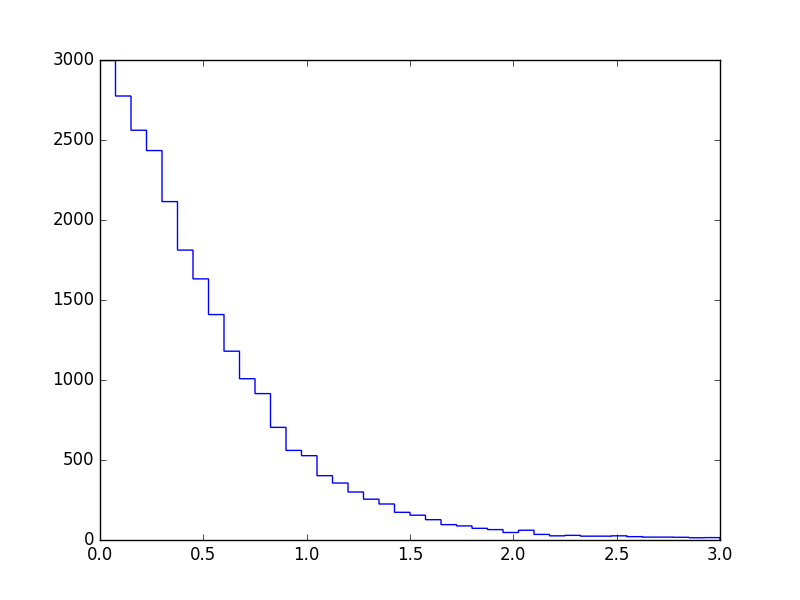
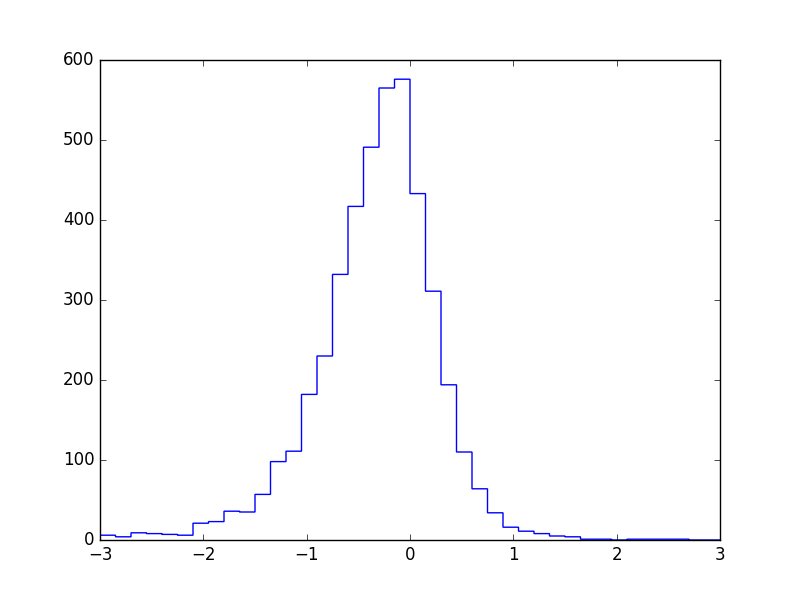
Plotting pulls

diff --git a/Code/Lifetime.py b/Code/Lifetime.py
@@ -220,17 +220,17 @@ class CandidateEvent(object):
 		m_d0 = self.reconstructedD0Mass
 		p_d0 = self.pD0
 		return x * m_d0 / p_d0
-# 		x = (self.dstarDecay-self.d0Decay)*1e-3
-# 		m_ds = self.reconstructedD0Mass
-# 		p_ds = self.pD0_comps
-# 		return np.sign(dot(x, p_ds)) * magnitude(x) * m_ds / magnitude(p_ds)
 
 	@lazy_property.LazyProperty
 	def dStarDecayTime(self):
+# 		x = (self.bDecay-self.dstarDecay)*1e-3
+# 		m_ds = self.reconstructedDstarMass
+# 		p_ds = self.pDstar_comps
+# 		return  magnitude(x) * m_ds / magnitude(p_ds)
 		x = (self.bDecay-self.dstarDecay)*1e-3
 		m_ds = self.reconstructedDstarMass
 		p_ds = self.pDstar_comps
-		return  magnitude(x) * m_ds / magnitude(p_ds)
+		return np.sign(dot(x, p_ds)) * magnitude(x) * m_ds / magnitude(p_ds)
 
 
 	@lazy_property.LazyProperty
@@ -489,18 +489,24 @@ def massDiff_plot(events, ext_name='', fit=True, range=(139, 165), methodName='m
 	masses = np.array([np.mean([d0, d1]) for d0, d1 in zip(bin_edges[:-1], bin_edges[1:])])
 	bin_width = bin_edges[1] - bin_edges[0]
 
-	initial = [max(hist)*0.04, 0.25, max(hist), 146, .1, 1., .9]
+	initial = [max(hist)*0.04, 0.25, max(hist), 145.5, .1, 1., .9]
 
 	# https://suchideas.com/articles/maths/applied/histogram-errors/
 	errors = np.sqrt(hist)
-		
+	x_errors = np.repeat(bin_width/2, len(errors))
+	
 	if fit:	
 		po, po_cov = spo.curve_fit(combined_fit, masses, hist, initial, sigma=errors, bounds=(0, [np.inf, np.inf, np.inf, np.inf, 1, 5, np.inf]))
 		print('po-fit', po)
 	
-	fig = newrawfig()
-	subpl_height = .2
-	ax = fig.add_axes([0, subpl_height, default_width, default_width*golden_mean-subpl_height])
+	fig = newrawfig(width=2)
+	margin = .1
+	out_margin = .02
+	subpl_height = .3
+	width, height = 1, 1
+	# x_l, x_b, w, h
+	ax = fig.add_axes([margin, subpl_height, width-margin-out_margin, height-subpl_height-margin])
+	ax.axes.get_xaxis().set_visible(False)
 	ax.plot(masses, hist, '.r')
 	ax.errorbar(masses, hist, yerr=errors, fmt=',r', capsize=0)
 	
@@ -509,18 +515,26 @@ def massDiff_plot(events, ext_name='', fit=True, range=(139, 165), methodName='m
 		ax.plot(masses_continuous, combined_fit(masses_continuous, *po), '-g')
 # 		ax.plot(masses_continuous, gaussian(masses_continuous, po[2] * po[6], po[4], po[3]), '-k')
 # 		ax.plot(masses_continuous, gaussian(masses_continuous, po[2] * (1-po[6]), po[5], po[3]), '-k')
-		ax.fill_between(masses_continuous, 0, background_fit(masses_continuous, *po[:2]), facecolor='blue', edgecolor="None", alpha=0.5)
+		ax.fill_between(masses_continuous, 0, background_fit(masses_continuous, *po[:2]), facecolor='blue', edgecolor="None", alpha=0.35)
 		
-		frame1 = fig.add_axes([0,0, default_width, subpl_height])
-		frame1.plot(masses_continuous, masses_continuous*0, '-g')
-		frame1.plot(masses, combined_fit(masses, *po)-hist, '.r')
-		frame1.errorbar(masses, combined_fit(masses, *po)-hist, yerr=errors, fmt=',r')
-		frame1.set_xlim(range)
+		pull_ax = fig.add_axes([margin, margin, width-margin-out_margin, subpl_height-margin])
+		pulls = (hist-combined_fit(masses, *po))/errors
+		print(pulls)
+		pull_ax.bar(masses, pulls, bin_width, edgecolor="None")
+		pull_ax.set_xlim(range)
+# 		pull_ax.set_ylim(-5,5)
+			
+		pull_ax.set_ylabel(r'Pull')
+		pull_ax.set_xlabel(r'$\Delta m$ [GeV/$c^2$]')
+		
+		for tick in pull_ax.yaxis.get_major_ticks():
+			tick.label.set_fontsize(6)
 
+	else:
+		ax.set_xlabel(r'$\Delta m$ [GeV/$c^2$]')
 	
 	ax.set_xlim(range)
-	pl.xlabel(r'$\Delta m$ [GeV/$c^2$]')
-	pl.ylabel(r'Relative frequency')
+	ax.set_ylabel(r'Relative frequency')
 	savefig('cut-fitted'+ext_name)
 	pl.close()
 	return po if fit else [], bin_width
@@ -535,9 +549,7 @@ def cutEventSet_massDiff(events, width):
 	po, bin_width = massDiff_plot(events)
 
 	# cut at 4 widths
-	bg_A, bg_p, sig_A, sig_centre, sig_w1, sig_w2, f = po
-	sig_w = max(sig_w1, sig_w2)
-	range_low, range_up = sig_centre - sig_w*width, sig_centre + sig_w*width
+	range_low, range_up = get_sig_range(po, width)
 	print('range', range_low, range_up)
 	accepted = [event for event in events if range_low <= event.massDiff_d0dstar <= range_up]
 	rejected = [event for event in events if not range_low <= event.massDiff_d0dstar <= range_up]
@@ -568,14 +580,19 @@ def cut(accepted, rejected, cond):
 # 	return np.sqrt(sy2/n - mean*mean)/np.sqrt(n)
 
 
+def get_sig_range(po, width):
+	bg_A, bg_p, sig_A, sig_centre, sig_w1, sig_w2, f = po
+	sig_w = max(sig_w1, sig_w2)
+	range_low, range_up = sig_centre - sig_w*width, sig_centre + sig_w*width
+	return range_low, range_up
 
 
 def estimate_background(po, filtered, width):
-	sig_centre, sig_w = po[3], po[4]
-	range_low, range_up = sig_centre - sig_w*width, sig_centre + sig_w*width
+	range_low, range_up = get_sig_range(po, width)
 	bg_integral = spi.quad(background_fit, range_low, range_up, args=(po[0], po[1]))[0]
+	sig_integral = spi.quad(signal_fit, range_low, range_up, args=(po[2], po[3], po[4], po[5], po[6]))[0]
 
-	bg_fraction = bg_integral/len(filtered)
+	bg_fraction = bg_integral/(sig_integral + bg_integral)
 
-	print("BACKGROUND EST", bg_integral, len(filtered), bg_fraction)
+	print("BACKGROUND EST", bg_integral, len(filtered), str(bg_fraction*100) + "%")
 	return bg_integral, bg_fraction

diff --git a/Code/style.py b/Code/style.py
@@ -7,12 +7,13 @@ import matplotlib.pyplot as pl
 
 golden_mean = (np.sqrt(5.0)-1.0)/2.0            # Aesthetic ratio (you could change this)
 
+fig_width_pt = 370                        # Get this from LaTeX using \the\textwidth
+inches_per_pt = 1.0/72.27                       # Convert pt to inch
+
 def figsize(scale, height_adj):
-	fig_width_pt = 370                        # Get this from LaTeX using \the\textwidth
-	inches_per_pt = 1.0/72.27                       # Convert pt to inch
 	fig_width = fig_width_pt*inches_per_pt*scale    # width in inches
 	fig_height = fig_width*golden_mean + height_adj              # height in inches
-	fig_size = [fig_width,fig_height]
+	fig_size = [fig_width, fig_height]
 	return fig_size
 
 is_latex = '--latex-plot' in sys.argv
@@ -33,14 +34,14 @@ if is_latex:
 	"legend.fontsize": 7,               # Make the legend/label fonts a little smaller
 	"xtick.labelsize": 7,
 	"ytick.labelsize": 7,
-	"figure.figsize": figsize(0.9),     # default fig size of 0.9 textwidth
+	"figure.figsize": figsize(0.7),     # default fig size of 0.7 textwidth
 	"figure.autolayout" : True,
 	"pgf.preamble": [
-	r"\usepackage[utf8x]{inputenc}",    # use utf8 fonts becasue your computer can handle it :)
-	r"\usepackage[T1]{fontenc}",        # plots will be generated using this preamble
-	r"\usepackage{/Users/joe/Documents/SummerProject/Report/atlasphysics}",    # use utf8 fonts becasue your computer can handle it :)
-			]
-		}
+		r"\usepackage[utf8x]{inputenc}",    # use utf8 fonts becasue your computer can handle it :)
+		r"\usepackage[T1]{fontenc}",        # plots will be generated using this preamble
+		r"\usepackage{/Users/joe/Documents/SummerProject/Report/atlasphysics}",    # use utf8 fonts because your computer can handle it :)
+		]
+	}
 	plt.rcParams.update(pgf_with_latex)
 
 	# I make my own newfig and savefig functions

diff --git a/Code/Resolution.py b/Code/Resolution.py
@@ -5,7 +5,7 @@ times = [d.dStarDecayTime*1e12 for d in filtered]
 # print(times)
 print(np.mean(times))
 
-pl.hist(times, 40, range=(0,3), histtype='step', fill=False)
+pl.hist(times, 40, range=(-3,3), histtype='step', fill=False)
 # sy, _ = np.histogram(times, bins=bin_edges, weights=times)
 # time = np.array([e if n == 0 else t/n for t, n, e in zip(sy, hist, bin_edges[1:])])
 

diff --git a/Code/Cuts.py b/Code/Cuts.py
@@ -109,7 +109,7 @@ filtered, rejected = cut(filtered, rejected, lambda d:  .9995 <= d.costheta)
 
 print('cut-done')
 
-after_po, after_bin_width = massDiff_plot(filtered, 'after')
+after_po, after_bin_width = massDiff_plot(filtered, 'after', range=get_sig_range(po, width))
 bg_integral, bg_fraction = estimate_background(after_po, filtered, 3.)
 
 
